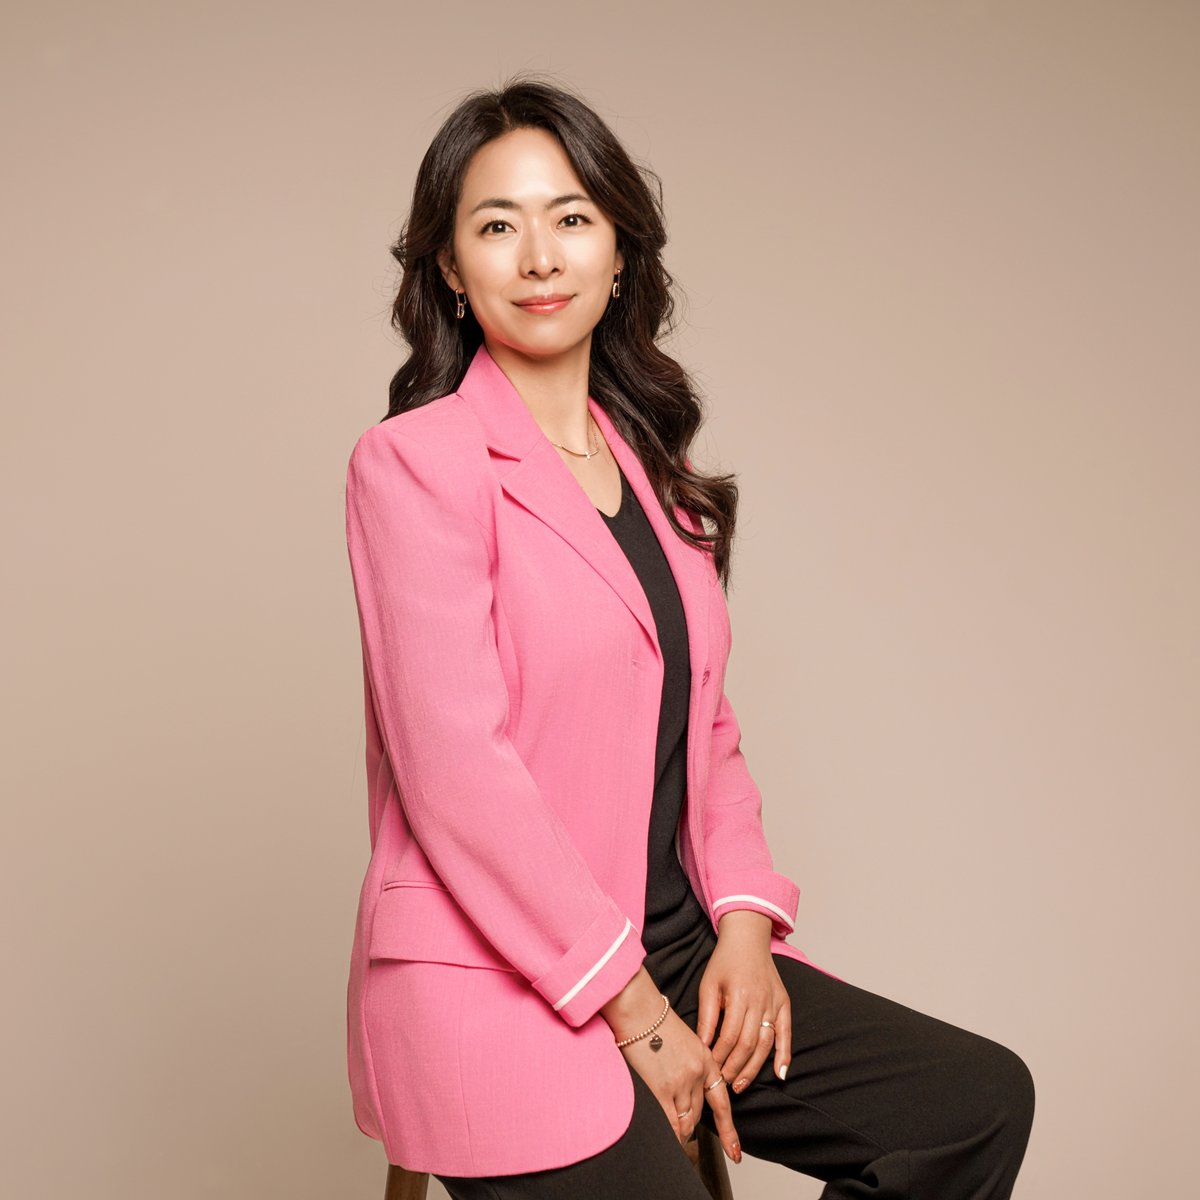
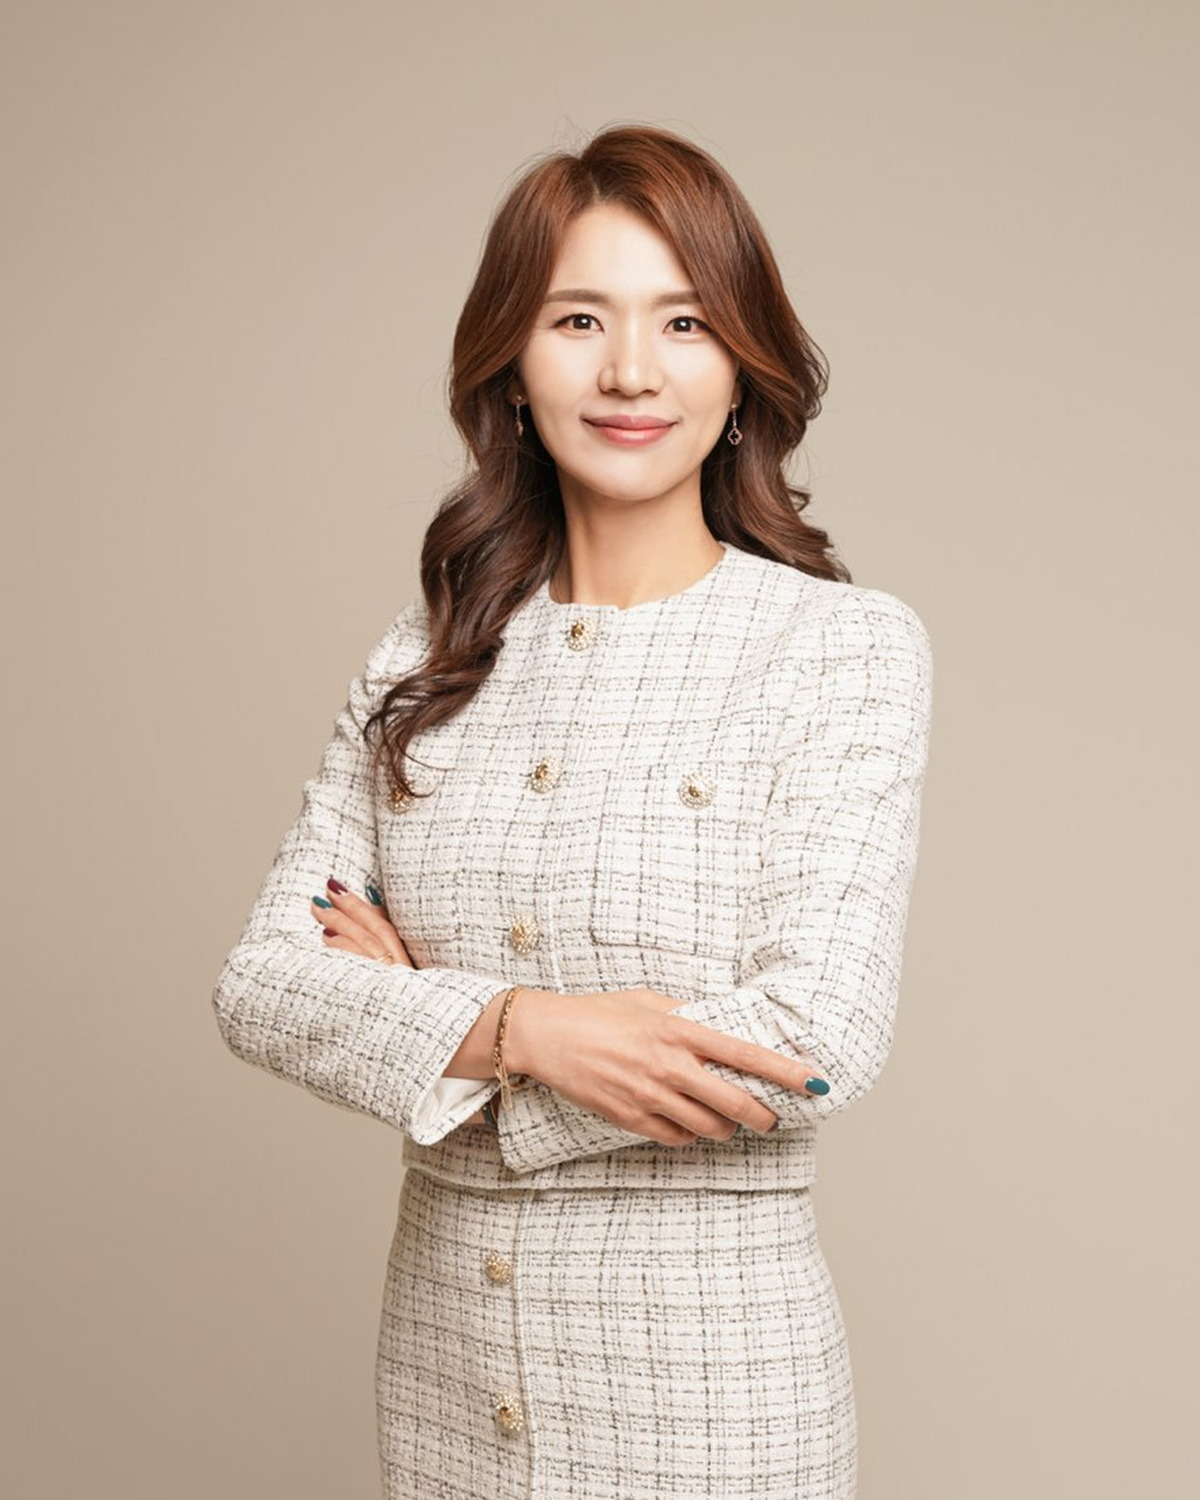
서혜미 → 서혜영 전면 교체(메타·JSON-LD·히어로·어바웃·QR팝업·A4포스터), 신규 인물사진 portrait.jpg 교체(?v=2), 히어로 인사말을 'Cell Curator 서혜영' 카피로 변경

diff --git a/index.html b/index.html
@@ -5,21 +5,21 @@
 <meta name="viewport" content="width=device-width, initial-scale=1.0, maximum-scale=1.0, user-scalable=no, viewport-fit=cover">
 <meta name="theme-color" content="#FBF7EE">
 <title>USANA 브랜드파트너 | 진정한 건강을 전하는</title>
-<meta name="description" content="유사나(USANA) 브랜드파트너·건강코치 서혜미입니다. 세포과학 기반 글로벌 뉴트리션 유사나와 함께 종합비타민·헬스팩 등 진짜 영양으로 건강한 일상을 시작하세요. 카카오·전화 1:1 상담." />
-<meta name="keywords" content="유사나, USANA, 서혜미, 건강코치, 유사나 브랜드파트너, 세포영양, 영양제 추천, 종합비타민, 헬스팩, 인셀리전스, 뉴트리션" />
-<meta name="author" content="서혜미 · USANA 브랜드파트너" />
+<meta name="description" content="유사나(USANA) 브랜드파트너·건강코치 서혜영입니다. 세포과학 기반 글로벌 뉴트리션 유사나와 함께 종합비타민·헬스팩 등 진짜 영양으로 건강한 일상을 시작하세요. 카카오·전화 1:1 상담." />
+<meta name="keywords" content="유사나, USANA, 서혜영, 건강코치, 유사나 브랜드파트너, 세포영양, 영양제 추천, 종합비타민, 헬스팩, 인셀리전스, 뉴트리션" />
+<meta name="author" content="서혜영 · USANA 브랜드파트너" />
 <meta name="robots" content="index, follow, max-image-preview:large, max-snippet:-1" />
 <link rel="canonical" href="https://usana-hyemi.kr/" />
 <meta property="og:type" content="website" />
 <meta property="og:url" content="https://usana-hyemi.kr/" />
-<meta property="og:site_name" content="유사나 건강코치 서혜미" />
+<meta property="og:site_name" content="유사나 건강코치 서혜영" />
 <meta property="og:title" content="USANA 브랜드파트너 | 진정한 건강을 전하는" />
-<meta property="og:description" content="세포과학에서 시작되는 진짜 영양, 유사나 건강코치 서혜미와 함께 건강한 일상을 시작하세요." />
+<meta property="og:description" content="세포과학에서 시작되는 진짜 영양, 유사나 건강코치 서혜영과 함께 건강한 일상을 시작하세요." />
 <meta property="og:image" content="https://usana-hyemi.kr/assets/portrait.jpg" />
 <meta property="og:locale" content="ko_KR" />
 <meta name="twitter:card" content="summary_large_image" />
 <meta name="twitter:title" content="USANA 브랜드파트너 | 진정한 건강을 전하는" />
-<meta name="twitter:description" content="세포과학에서 시작되는 진짜 영양, 유사나 건강코치 서혜미와 함께." />
+<meta name="twitter:description" content="세포과학에서 시작되는 진짜 영양, 유사나 건강코치 서혜영과 함께." />
 <meta name="twitter:image" content="https://usana-hyemi.kr/assets/portrait.jpg" />
 <meta name="apple-mobile-web-app-capable" content="yes" />
 <link rel="apple-touch-icon" href="assets/portrait.jpg" />
@@ -30,8 +30,8 @@
 {
   "@context": "https://schema.org",
   "@type": "Person",
-  "name": "서혜미",
-  "alternateName": "유사나 건강코치 서혜미",
+  "name": "서혜영",
+  "alternateName": "유사나 건강코치 서혜영",
   "jobTitle": "USANA 브랜드파트너 · 건강코치",
   "url": "https://usana-hyemi.kr/",
   "image": "https://usana-hyemi.kr/assets/portrait.jpg",
@@ -2138,7 +2138,7 @@
   <!-- ==================== HERO (USANA brand) ==================== -->
   <section class="hero">
     <div class="hero-photo">
-      <img src="assets/portrait.jpg" alt="서혜미 USANA 브랜드파트너" />
+      <img src="assets/portrait.jpg?v=2" alt="서혜영 USANA 브랜드파트너" />
     </div>
 
     <svg class="hero-wave" viewBox="0 0 480 64" preserveAspectRatio="none" aria-hidden="true" xmlns="http://www.w3.org/2000/svg">
@@ -2157,7 +2157,7 @@
         <strong>당신의 하루</strong>를 새롭게 합니다.
       </p>
       <p class="hero-greeting">
-        <span class="hero-greeting-hi">안녕하세요, 서혜미입니다.</span>
+        <span class="hero-greeting-hi">안녕하세요.<br/>세포의 신호를 삶의 변화로 큐레이팅하는<br/>Cell Curator 서혜영입니다.</span>
         진정한 건강을 선물 드리고자<br/>
         진짜 영양을 당신의 일상 가까이에서 안내해드립니다.
       </p>
@@ -2177,7 +2177,7 @@
 
       <div class="about-quote">
         <p class="about-quote-text">유사나가 하는 모든 것은<br/>당신의 삶을 사랑하고<br/>사랑하는 삶을 살도록 도와주는 것입니다.<br/>이제, 당신의 차례입니다.<br/>그 곁에서 함께 하겠습니다.</p>
-        <div class="about-quote-sig">건강코치 서혜미 드림</div>
+        <div class="about-quote-sig">건강코치 서혜영 드림</div>
       </div>
     </div>
   </section>
@@ -2652,13 +2652,13 @@
     <div class="qr-sheet">
       <button type="button" class="qr-close" aria-label="닫기" onclick="closeQrModal()">×</button>
       <div class="qr-head">
-        <div class="qr-name">유사나 건강코치<br/><span class="qr-hl">서혜미</span>입니다.</div>
+        <div class="qr-name">유사나 건강코치<br/><span class="qr-hl">서혜영</span>입니다.</div>
       </div>
       <div class="qr-body">
         <div class="qr-imgwrap">
           <span class="qtick tl"></span><span class="qtick tr"></span>
           <span class="qtick bl"></span><span class="qtick br"></span>
-          <img src="assets/qr-code.png" alt="서혜미 모바일 명함 QR코드" />
+          <img src="assets/qr-code.png" alt="서혜영 모바일 명함 QR코드" />
         </div>
         <div class="qr-scan">휴대폰 카메라로 <span>QR을 스캔</span>하세요</div>
         <div class="qr-sub">스캔하면 이 모바일 명함이 바로 열립니다</div>

diff --git a/qr-poster.html b/qr-poster.html
@@ -3,7 +3,7 @@
 <head>
 <meta charset="UTF-8" />
 <meta name="viewport" content="width=device-width, initial-scale=1.0" />
-<title>서혜미 · 모바일 명함 QR 포스터 (A4)</title>
+<title>서혜영 · 모바일 명함 QR 포스터 (A4)</title>
 <link rel="stylesheet" as="style" crossorigin href="https://cdn.jsdelivr.net/gh/orioncactus/pretendard@v1.3.9/dist/web/variable/pretendardvariable.min.css" />
 <link rel="preconnect" href="https://fonts.googleapis.com">
 <link rel="preconnect" href="https://fonts.gstatic.com" crossorigin>
@@ -198,7 +198,7 @@
   <div class="sheet">
     <div class="p-head">
       <div class="p-eyebrow">USANA · BRAND PARTNER</div>
-      <div class="p-name">서혜미<small>SEO HYEMI</small></div>
+      <div class="p-name">서혜영<small>SEO HYEYOUNG</small></div>
       <div class="p-role">건강코치 · USANA 브랜드파트너</div>
     </div>
 
@@ -215,7 +215,7 @@
       </div>
 
       <div class="p-scan">휴대폰 카메라로 <span>QR을 스캔</span>하세요</div>
-      <div class="p-sub">스캔하면 서혜미 대표의 모바일 명함이 바로 열립니다</div>
+      <div class="p-sub">스캔하면 서혜영 대표의 모바일 명함이 바로 열립니다</div>
       <div class="p-url">usana-hyemi.kr</div>
 
       <div class="p-contacts">
